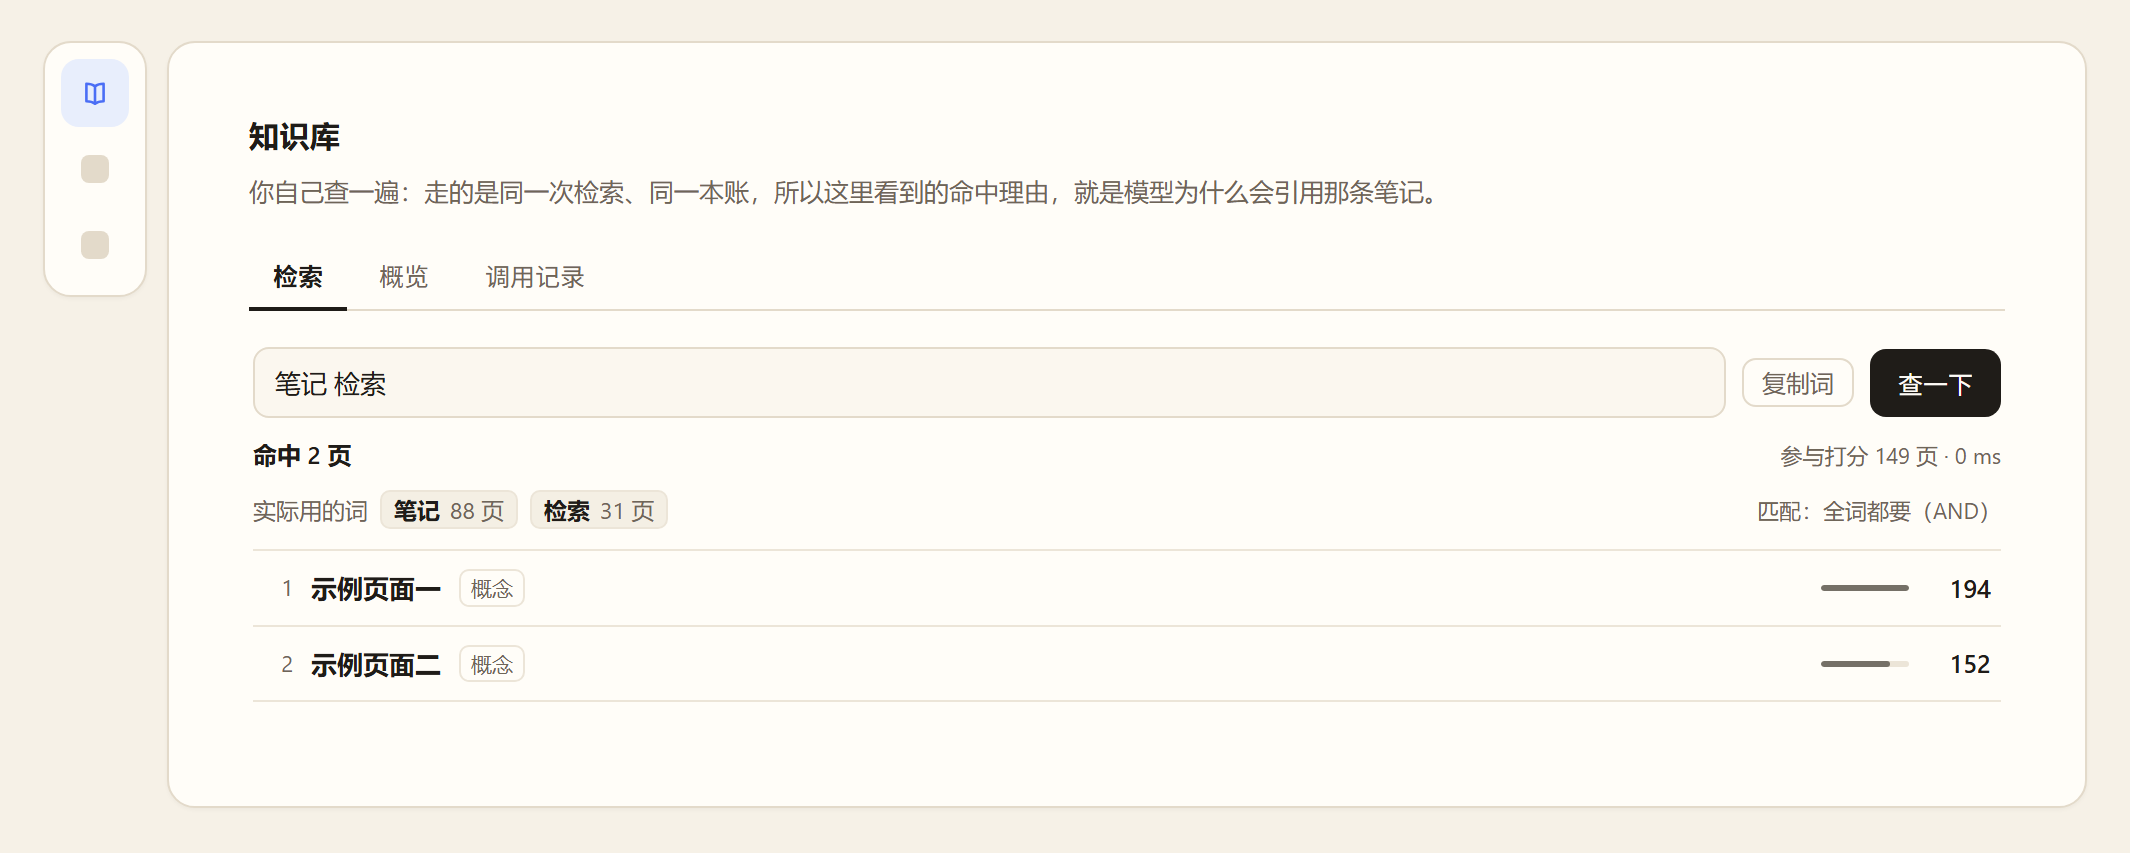
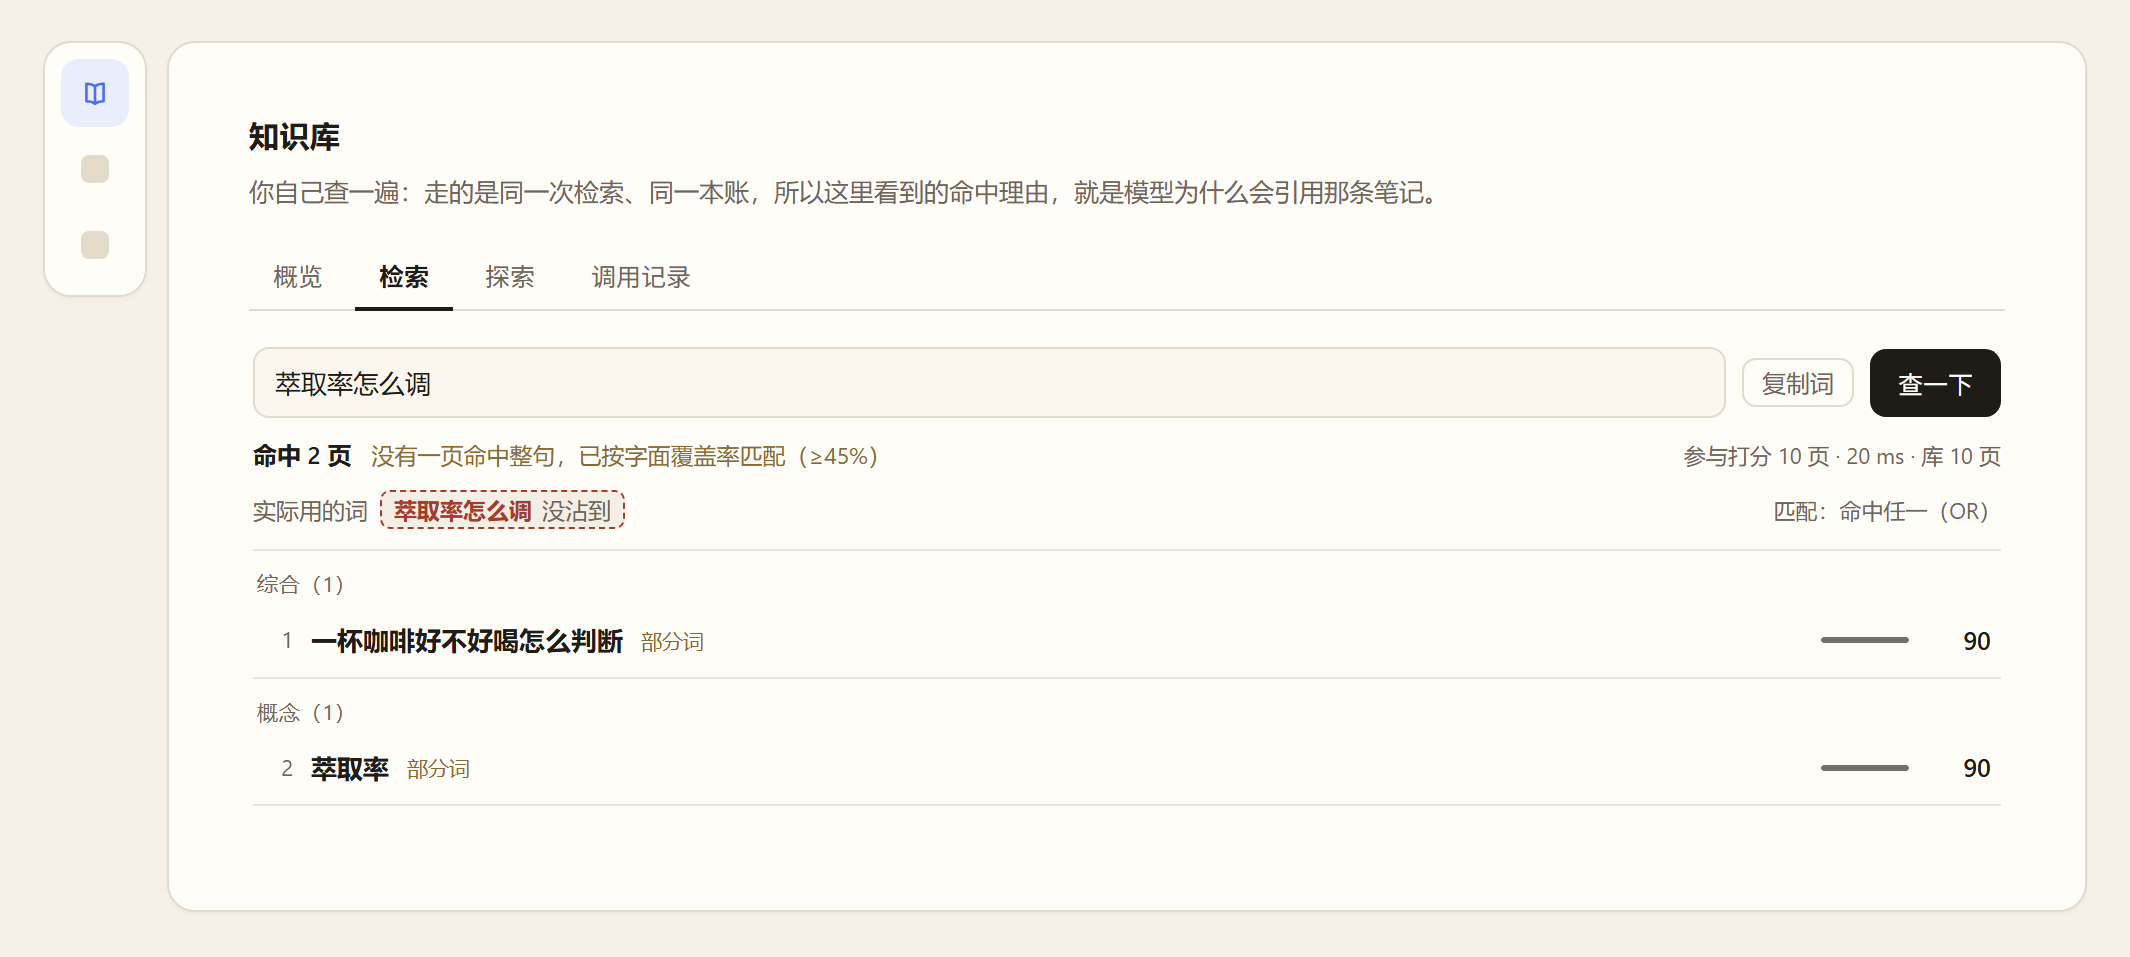
docs: 首屏图与概览图改用示例库渲染；预览工具加 --query；检索框占位符中性化（1.11.1）

diff --git a/lib/client.js b/lib/client.js
@@ -1405,7 +1405,7 @@ window.__ModuleLoader__.load({
             ref: inputRef,
             spellCheck: false,
             'aria-label': '检索词',
-            placeholder: '输入关键词，例如「上下文 预算」',
+            placeholder: '输入关键词，例如「项目 复盘」',
             onChange: function (event) {
               var next = event.target.value
               setQuery(next)

diff --git a/CHANGELOG.md b/CHANGELOG.md
@@ -2,6 +2,20 @@
 
 本文件的体例：只记「对使用者有影响的行为变化」，不记内部重构。版本号遵循 semver，`0.x` 阶段不承诺兼容。
 
+## 1.11.1
+
+### 改 · 文档里的图全部改成「示例库渲染 + 真组件」
+`docs/preview.png`（首屏那张）和 `docs/preview-overview.png` 现在都是拿随包的 `examples/demo-wiki` 真跑 `node tools/preview.mjs` 渲真组件后截的。首屏那张还顺手跟上了四个一级页签（旧图还是三页签时代）。
+
+顺手修掉三处「作者的库漏到公共物里」的痕迹：
+
+- `tools/preview.mjs` 的检索数据源把查询词写死成 `上下文 预算`（作者库的主题词）→ 新增 `--query`，默认值只在没给时才用。
+- 检索框占位符原来是「输入关键词，例如『上下文 预算』」→ 改成「项目 复盘」。占位符是给所有用户看的，不该举某一个库的例子。
+- 同一条约束写进了 README 的图注：截图为什么不用真实笔记库。
+
+### 说明 · 1.11.0 没发上 npm
+`npm publish` 对 1.11.0 成功回了 `+ dsh-wiki-notes@1.11.0`，但 registry 上查不到这个版本；再发一次回 `409 Cannot publish over previously staged version "1.11.0"`，而 `npm stage list` 是空的 —— 版本号被占住但没有真的落地。所以 npm 上从 1.10.3 直接跳到 **1.11.1**，1.10.3 到 1.11.1 的差异包含了 1.11.0 的全部内容（那是 git 里的 `4c60ebd`）。GitHub 侧的 tag `v1.11.0` 与 Release 都在。
+
 ## 1.11.0
 
 ### 改 · 一个词两种含义，现在只剩一种：`degraded` → `orFallback`

diff --git a/README.md b/README.md
@@ -4,7 +4,7 @@
 
 **把一整个 Markdown 笔记库，变成模型能直接查的四个只读工具。**
 
-![知识库面板：左侧栏那本书点进去，是「检索 / 概览 / 调用记录」三页签；结果直接给出命中小节的正文和出处](docs/preview.png)
+![知识库面板：左侧栏那本书点进去，一级页签是「概览 / 检索 / 探索 / 调用记录」；检索结果直接给出命中小节的正文和出处](docs/preview.png)
 
 它是干这个的：你有一堆笔记（Obsidian 库、导出的文档目录都行），模型要回答的问题，答案就写在里面。没这个插件，它得自己走五步 —— 读总览 → 读索引 → 敲命令搜 → 打开那页 → 追来源，还未必读对。装上之后它调一次 `wiki_recall`，拿回来的就是**命中小节的完整正文 + 出处**，接着就能答。
 
